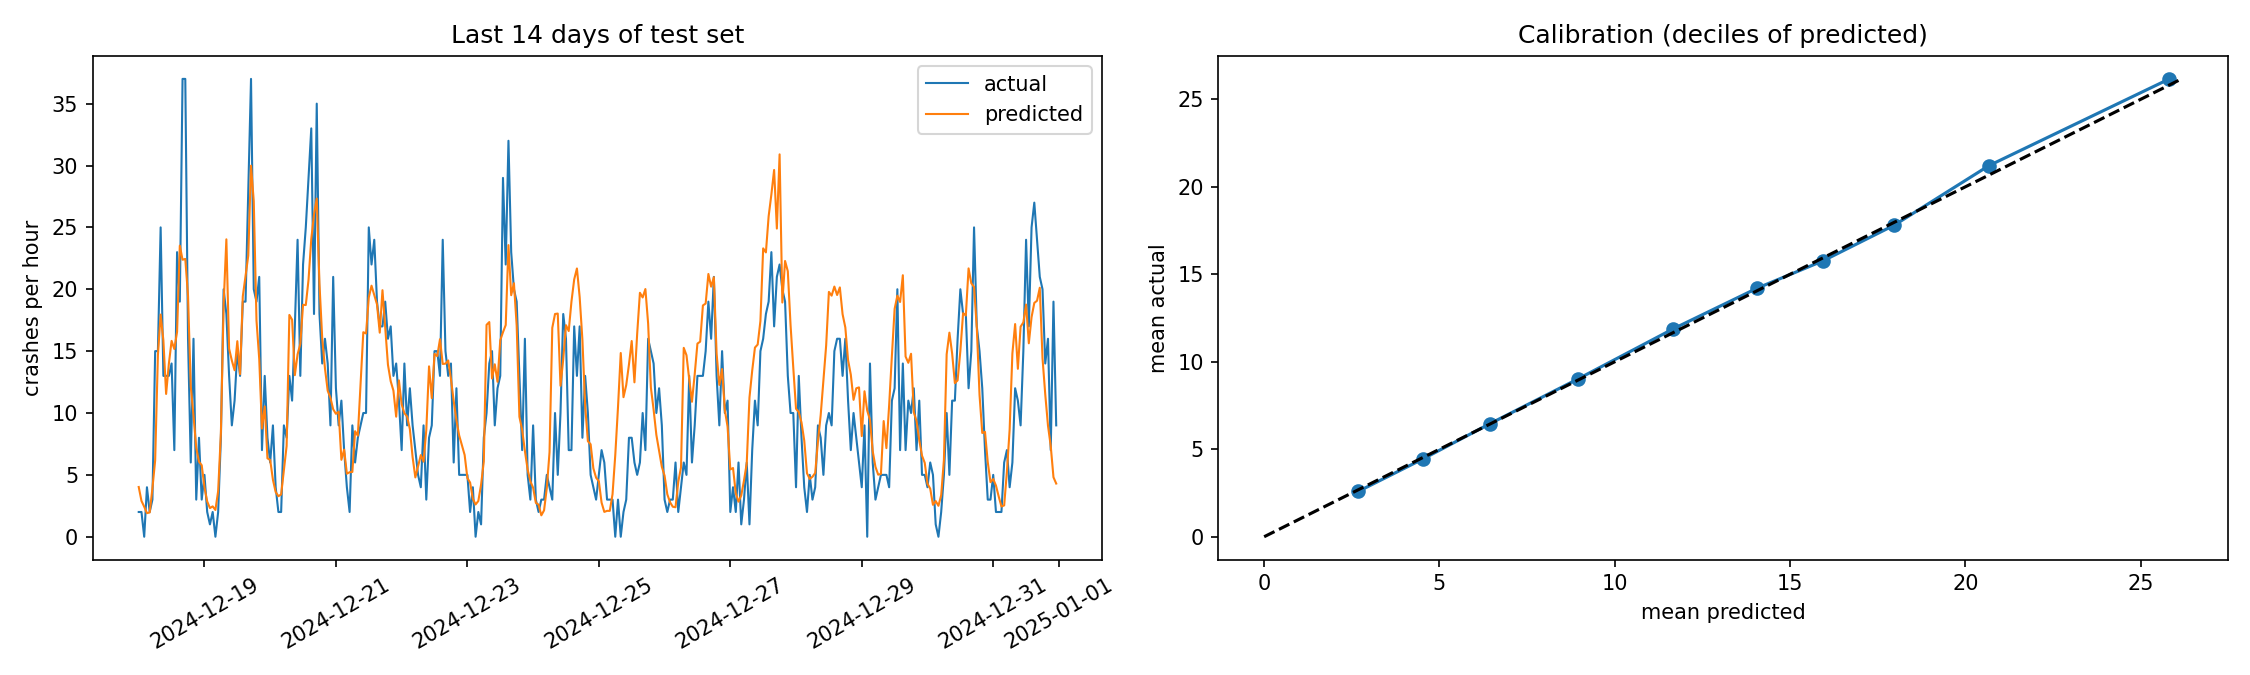
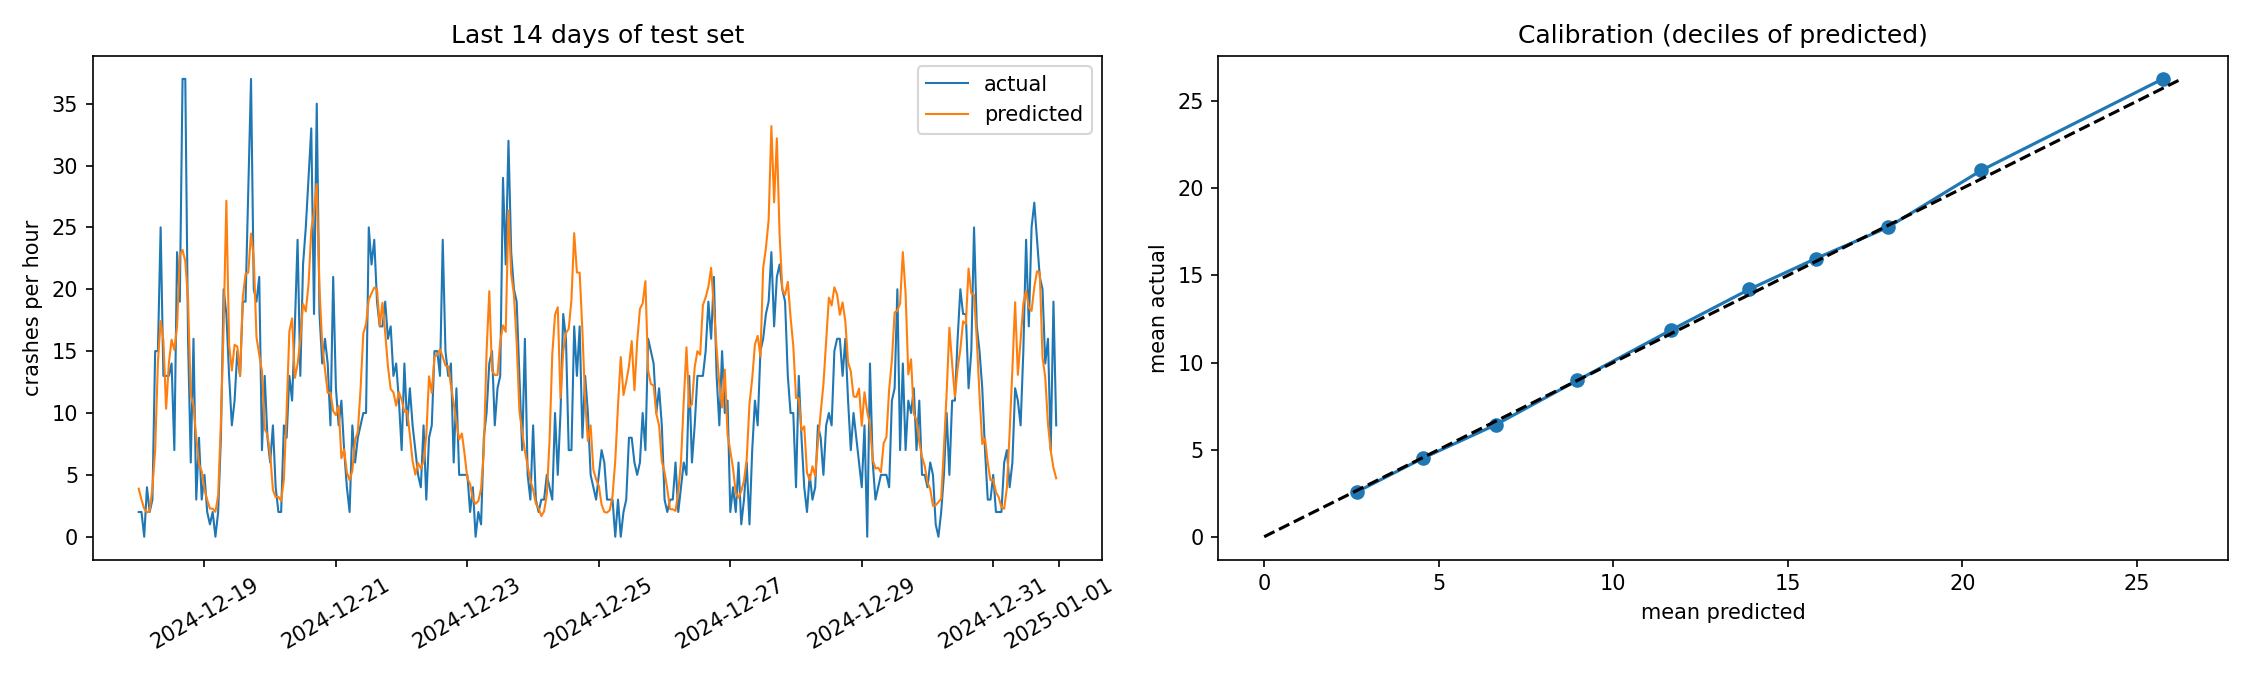
Fixed and expanded models

diff --git a/crash_severity/factor_effects.py b/crash_severity/factor_effects.py
@@ -1,0 +1,131 @@
+"""Which conditions are associated with a crash being severe, and in which direction?
+
+Fits ONE logistic regression of `severe` on the pre-crash conditions and reports adjusted odds ratios
+with 95% confidence intervals. An odds ratio above 1 means the condition is associated with a higher
+chance that a crash is fatal/incapacitating, compared with the reference level, holding the other listed
+conditions fixed. Below 1 means lower. These are ASSOCIATIONS, not causes.
+
+Why this complements the permutation importance: importance says which feature families the model relies
+on; this says which way each condition pushes severity, and by how much.
+
+Inference choices
+  * Uses crashes BEFORE config.TRAIN_END (the same period as the EDA screening), so the 2023-2024
+    validation/test years stay untouched.
+  * Standard errors are clustered by grid cell, because crashes in the same place are not independent.
+  * Levels with under MIN_LEVEL_SHARE of crashes are merged into OTHER so rare levels cannot blow up.
+
+Run from the repository root (after preprocessing):  python -m crash_severity.factor_effects
+Needs:  pip install statsmodels
+"""
+import numpy as np
+import pandas as pd
+
+import matplotlib
+matplotlib.use("Agg")
+import matplotlib.pyplot as plt
+import statsmodels.api as sm
+
+from . import config
+
+OUT, FIG = config.OUT_DIR, config.FIG_DIR
+
+CATEGORICAL = {            # column -> reference level (None = use the most common level)
+    "lighting_condition": "DAYLIGHT",
+    "weather_condition": "CLEAR",
+    "roadway_surface_cond": "DRY",
+    "trafficway_type": None,
+    "alignment": None,
+    "traffic_control_device": None,
+    "season": None,
+}
+BINARY = ["is_weekend", "is_rush_hour"]
+MIN_LEVEL_SHARE = 0.01     # merge levels rarer than 1% of crashes into OTHER
+
+
+def load():
+    cols = ["crash_date", "severe", "posted_speed_limit", "grid_id", *CATEGORICAL, *BINARY]
+    df = pd.read_csv(OUT / "cleaned_crashes.csv.gz", usecols=cols, parse_dates=["crash_date"], low_memory=False)
+    df = df[df["crash_date"] < pd.Timestamp(config.TRAIN_END)].copy()
+    n0 = len(df)
+    df = df.dropna(subset=["posted_speed_limit"])
+    print(f"Fitting on {len(df):,} crashes before {config.TRAIN_END} ({n0 - len(df):,} dropped for missing speed limit); "
+          f"{int(df['severe'].sum()):,} severe.")
+    return df.reset_index(drop=True)
+
+
+def build_design(df):
+    """Dummy-code the predictors. Returns X (with constant), plus a table describing every term."""
+    parts, info = [], []
+    for col, ref in CATEGORICAL.items():
+        s = df[col].fillna("UNKNOWN").astype(str)
+        share = s.value_counts(normalize=True)
+        s = s.where(s.map(share) >= MIN_LEVEL_SHARE, "OTHER")
+        ref_level = ref if ref in set(s) else s.value_counts().idxmax()
+        d = pd.get_dummies(s, prefix=col, prefix_sep="=").astype(float)
+        d = d.drop(columns=f"{col}={ref_level}")
+        parts.append(d)
+        for term in d.columns:
+            lvl = term.split("=", 1)[1]
+            m = s == lvl
+            info.append({"term": term, "factor": col, "level": lvl, "reference": ref_level,
+                         "n_crashes": int(m.sum()), "n_severe": int(df.loc[m, "severe"].sum())})
+    for col in BINARY:
+        parts.append(df[[col]].astype(float))
+        m = df[col] == 1
+        info.append({"term": col, "factor": col, "level": "yes", "reference": "no",
+                     "n_crashes": int(m.sum()), "n_severe": int(df.loc[m, "severe"].sum())})
+    speed = (df["posted_speed_limit"] / 10.0).rename("speed_limit_per_10mph")
+    parts.append(speed.to_frame())
+    info.append({"term": "speed_limit_per_10mph", "factor": "posted_speed_limit", "level": "+10 mph",
+                 "reference": "per 10 mph", "n_crashes": len(df), "n_severe": int(df["severe"].sum())})
+    X = sm.add_constant(pd.concat(parts, axis=1), has_constant="add")
+    return X, pd.DataFrame(info)
+
+
+def fit(df):
+    X, info = build_design(df)
+    groups = pd.factorize(df["grid_id"].fillna("NO_LOCATION"))[0]
+    model = sm.GLM(df["severe"].astype(float), X, family=sm.families.Binomial())
+    res = model.fit(cov_type="cluster", cov_kwds={"groups": groups})
+    ci = res.conf_int()
+    out = pd.DataFrame({"term": res.params.index, "odds_ratio": np.exp(res.params.values),
+                        "ci_low": np.exp(ci[0].values), "ci_high": np.exp(ci[1].values),
+                        "p_value": res.pvalues.values})
+    out = info.merge(out, on="term", how="left")
+    out["clear_effect"] = (out["ci_low"] > 1) | (out["ci_high"] < 1)      # interval excludes 1
+    return out.sort_values("odds_ratio", ascending=False).reset_index(drop=True)
+
+
+def forest_plot(tbl, min_severe=30):
+    t = tbl[tbl["n_severe"] >= min_severe].sort_values("odds_ratio")      # skip terms with too few severe crashes
+    labels = [f"{r.factor}: {r.level}" if r.factor not in BINARY and r.factor != "posted_speed_limit"
+              else (f"{r.factor}" if r.factor in BINARY else "speed limit (+10 mph)") for r in t.itertuples()]
+    fig, ax = plt.subplots(figsize=(8, max(4, 0.28 * len(t))))
+    y = np.arange(len(t))
+    colors = np.where(t["clear_effect"], "#D55E00", "#999999")
+    ax.hlines(y, t["ci_low"], t["ci_high"], color=colors, lw=1.5)
+    ax.scatter(t["odds_ratio"], y, color=colors, zorder=3, s=18)
+    ax.axvline(1, color="black", lw=1, ls="--")
+    ax.set(yticks=y, yticklabels=labels, xscale="log", xlabel="Adjusted odds ratio for a severe crash (log scale, 95% CI)",
+           title="Conditions associated with severe crashes (orange = interval excludes 1)")
+    ax.tick_params(axis="y", labelsize=7)
+    FIG.mkdir(parents=True, exist_ok=True)
+    fig.savefig(FIG / "fig9_odds_ratios.png", dpi=300, bbox_inches="tight")
+    fig.savefig(FIG / "fig9_odds_ratios.pdf", bbox_inches="tight")
+    plt.close(fig)
+
+
+def main():
+    df = load()
+    tbl = fit(df)
+    tbl.to_csv(OUT / "factor_odds_ratios.csv", index=False)
+    forest_plot(tbl)
+    show = tbl[tbl["clear_effect"]][["factor", "level", "reference", "odds_ratio", "ci_low", "ci_high", "n_severe"]]
+    print("\nConditions whose 95% interval excludes 1 (largest odds ratio first):")
+    print(show.round(2).to_string(index=False))
+    print(f"\nWrote {OUT / 'factor_odds_ratios.csv'} and {FIG / 'fig9_odds_ratios.png'}")
+    print("Reminder: adjusted ASSOCIATIONS, not causal effects; crash data has no exposure (traffic volume) information.")
+
+
+if __name__ == "__main__":
+    main()

diff --git a/crash_severity/count_ablation.py b/crash_severity/count_ablation.py
@@ -1,0 +1,98 @@
+"""Do weather or O'Hare flight volume help predict HOURLY CRASH COUNTS beyond calendar and recent-history features?
+
+count_model.py ranks features by permutation importance, but flight departures follow the same daily rhythm
+as traffic, so a high importance there does not show that flights add information. This script answers the
+direct question: refit the same gradient-boosting count model with and without each external data source and
+compare held-out Poisson deviance (lower is better).
+
+Uncertainty: per-hour deviance differences are resampled in whole-DAY blocks, because neighbouring hours are
+strongly correlated and resampling single hours would give intervals that are too narrow.
+
+Run from the repository root (after preprocessing):  python -m crash_severity.count_ablation
+"""
+import numpy as np
+import pandas as pd
+from sklearn.ensemble import HistGradientBoostingRegressor
+
+from . import count_model as cm
+
+WEATHER = ["temp_f", "precip_in", "wind_mph", "visibility_mi", "wx_rain", "wx_snow", "wx_fog", "wx_freezing"]
+FLIGHTS = ["flight_departures", "mean_dep_delay_min", "cancelled_flights"]
+N_BOOT, SEED = 2000, 42
+
+
+def row_deviance(y, mu):
+    """Per-observation Poisson deviance (0*log(0) is treated as 0)."""
+    y, mu = np.asarray(y, float), np.clip(np.asarray(mu, float), 1e-6, None)
+    term = np.where(y > 0, y * np.log(np.where(y > 0, y, 1) / mu), 0.0)
+    return 2 * (term - (y - mu))
+
+
+def fit_predict(tr, te, feats):
+    gb = HistGradientBoostingRegressor(
+        loss="poisson", learning_rate=0.05, max_iter=500, max_leaf_nodes=15, min_samples_leaf=40,
+        l2_regularization=1.0, early_stopping=True, validation_fraction=0.15, n_iter_no_change=30,
+        random_state=cm.RANDOM_STATE)
+    gb.fit(tr[feats], tr["crash_count"])
+    return gb.predict(te[feats])
+
+
+def day_block_ci(diff, days, n_boot=N_BOOT, seed=SEED):
+    """95% interval for mean(diff), resampling whole days."""
+    s = pd.Series(diff).groupby(np.asarray(days)).agg(["sum", "count"])
+    sums, counts = s["sum"].to_numpy(), s["count"].to_numpy()
+    rng = np.random.default_rng(seed)
+    idx = rng.integers(0, len(s), size=(n_boot, len(s)))
+    means = sums[idx].sum(axis=1) / counts[idx].sum(axis=1)
+    return float(np.mean(diff)), *np.percentile(means, [2.5, 97.5])
+
+
+def main():
+    df = cm.load()
+    calendar, external = cm.pick_features(df)
+    weather = [c for c in WEATHER if c in external]
+    flights = [c for c in FLIGHTS if c in external]
+    tr, va, te = cm.split(df)
+    tr, te = tr.copy(), te.copy()
+    for c in weather + flights:                    # train medians only, as in count_model.py
+        med = tr[c].median()
+        tr[c], te[c] = tr[c].fillna(med), te[c].fillna(med)
+
+    sets = {"calendar + lags (base)": calendar}
+    if weather:
+        sets["base + weather"] = calendar + weather
+    if flights:
+        sets["base + flights"] = calendar + flights
+    if weather and flights:
+        sets["base + weather + flights"] = calendar + weather + flights
+
+    dev, rows = {}, []
+    for name, feats in sets.items():
+        mu = fit_predict(tr, te, feats)
+        dev[name] = row_deviance(te["crash_count"], mu)
+        rows.append({"feature_set": name, "n_features": len(feats), "test_mean_poisson_deviance": dev[name].mean()})
+    res = pd.DataFrame(rows)
+
+    base = dev["calendar + lags (base)"]
+    days = te["hour"].dt.date.to_numpy()
+    out = []
+    for name in sets:
+        if name == "calendar + lags (base)":
+            continue
+        d_mean, lo, hi = day_block_ci(base - dev[name], days)        # positive = the added data REDUCES deviance
+        verdict = "improves" if lo > 0 else ("worse" if hi < 0 else "no clear difference")
+        out.append({"feature_set": name, "deviance_reduction_vs_base": d_mean, "ci_low": lo, "ci_high": hi,
+                    "relative_reduction": d_mean / base.mean(), "verdict": verdict})
+    ab = pd.DataFrame(out)
+
+    res.to_csv(cm.OUT_DIR / "count_ablation_results.csv", index=False)
+    ab.to_csv(cm.OUT_DIR / "count_ablation_vs_base.csv", index=False)
+    print("\nTest-set Poisson deviance (lower is better):")
+    print(res.round(4).to_string(index=False))
+    print("\nPaired difference vs base (positive = added data helps; 95% day-block bootstrap interval):")
+    print(ab.round(4).to_string(index=False))
+    print(f"\nWrote count_ablation_results.csv and count_ablation_vs_base.csv to {cm.OUT_DIR.resolve()}")
+
+
+if __name__ == "__main__":
+    main()

diff --git a/crash_severity/figures.py b/crash_severity/figures.py
@@ -49,10 +49,13 @@ def fig_eda(crashes):
     ax[1].bar(yr.index.astype(str), yr["mean"] * 100, color=PALETTE[0])
     ax[1].set(title="Severe share by year (%)", xlabel="Year", ylabel="% severe")
     peak = pivot.stack().idxmax()
+    n_cell = int(((crashes["day_of_week"] == peak[0]) & (crashes["hour_of_day"] == peak[1])).sum())
+    n_sev = int(crashes.loc[(crashes["day_of_week"] == peak[0]) & (crashes["hour_of_day"] == peak[1]), "severe"].sum())
     save(fig, "fig1_severity_patterns",
          f"Share of crashes with a fatal or incapacitating injury ({crashes['severe'].mean():.2%} overall, "
          f"{int(crashes['severe'].sum()):,} of {len(crashes):,} crashes). The highest cell is {peak[0]} at {peak[1]}:00 "
-         f"({pivot.stack().max():.1f}%). Left: hour by weekday; right: by year.")
+         f"({pivot.stack().max():.1f}%, based on {n_sev:,} severe of {n_cell:,} crashes; a small cell, so treat the peak as "
+         f"noisy). Left: hour by weekday; right: by year.")
 
 
 def fig_ablation(results, ablation):
@@ -178,11 +181,17 @@ def fig_risk():
     ax[2].legend(loc="lower right", fontsize=8)
     m = val[val["score"].str.startswith("model")].set_index("top_fraction_of_cells")
     b = val[val["score"].str.contains("severe count")].set_index("top_fraction_of_cells")
+    c = val[val["score"].str.contains("crash count")].set_index("top_fraction_of_cells")
+    gap = m.loc[0.10, "share_of_test_severe_captured"] - c.loc[0.10, "share_of_test_severe_captured"]
+    gap_text = (f"At the top 10% the model is {gap * 100:+.1f} percentage points versus the past-crash-count baseline"
+                f"{' (essentially tied; no uncertainty interval is computed)' if abs(gap) < 0.02 else ''}.")
     save(fig, "fig7_risk_map",
          f"Grid-cell risk map (cells of {config.GRID_SIZE_DEG} degrees). Ranked on pre-test data, the model's top 10% of cells contain "
          f"{m.loc[0.10, 'share_of_test_severe_captured']:.1%} of later severe crashes, versus {b.loc[0.10, 'share_of_test_severe_captured']:.1%} "
-         f"for ranking by past severe counts alone (random would be 10%). Spearman vs observed counts: "
-         f"{m.loc[0.10, 'spearman_vs_test_severe']:.2f} (model) vs {b.loc[0.10, 'spearman_vs_test_severe']:.2f} (past severe count).")
+         f"for ranking by past severe counts and {c.loc[0.10, 'share_of_test_severe_captured']:.1%} for ranking by past crash counts "
+         f"(random would be 10%). Spearman vs observed counts: {m.loc[0.10, 'spearman_vs_test_severe']:.2f} (model), "
+         f"{b.loc[0.10, 'spearman_vs_test_severe']:.2f} (past severe count), {c.loc[0.10, 'spearman_vs_test_severe']:.2f} (past crash count). "
+         f"{gap_text}")
 
 
 def fig_confusion(best, results):
